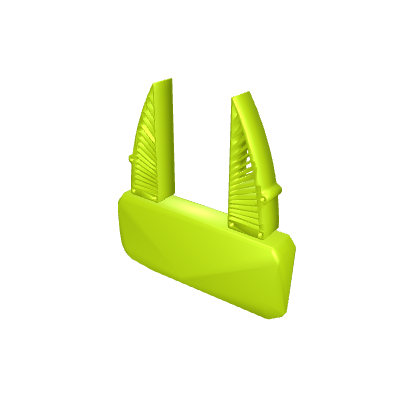
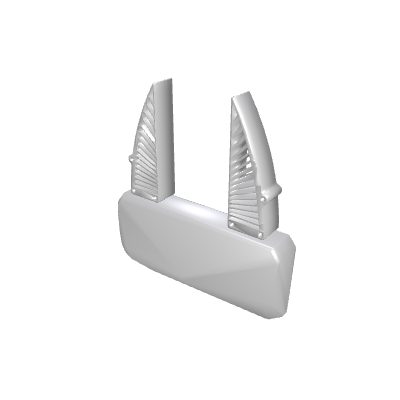
gripper imgs

Changed region(s): [[0.27, 0.18, 0.75, 0.81]]

diff --git a/gripper_descriptions/scripts/render_gripper_images.py b/gripper_descriptions/scripts/render_gripper_images.py
@@ -1,0 +1,221 @@
+#!/usr/bin/env python3
+# Copyright (c) 2025, NVIDIA CORPORATION. All rights reserved.
+#
+# NVIDIA CORPORATION and its licensors retain all intellectual property
+# and proprietary rights in and to this software, related documentation
+# and any modifications thereto. Any use, reproduction, disclosure or
+# distribution of this software and related documentation without an express
+# license agreement from NVIDIA CORPORATION is strictly prohibited.
+"""
+Render PNG images of each gripper's visual mesh (open configuration).
+
+Uses pyrender with EGL backend for headless offscreen rendering.
+Each gripper's vis_mesh.obj (merged visual mesh at open config) is loaded,
+rendered with a single-color metallic material, and saved as a PNG.
+
+Usage:
+    # Render all grippers
+    python -m gripper_descriptions.scripts.render_gripper_images
+
+    # Render a specific gripper
+    python -m gripper_descriptions.scripts.render_gripper_images --gripper robotiq_2f_85
+
+    # Custom output directory and resolution
+    python -m gripper_descriptions.scripts.render_gripper_images --output-dir my_figs/ --resolution 600
+"""
+
+import argparse
+import os
+import sys
+
+# Force EGL for headless rendering (must be set before pyrender import)
+os.environ["PYOPENGL_PLATFORM"] = "egl"
+
+import numpy as np
+import pyrender
+import trimesh
+from PIL import Image
+
+import gripper_descriptions
+
+
+def _normalize(v, eps=1e-12):
+    n = np.linalg.norm(v)
+    if n < eps:
+        return v
+    return v / n
+
+
+def camera_pose_from_lookat(eye, target, up=(0, 0, 1)):
+    """Compute a 4x4 camera-to-world pose matrix for pyrender (OpenGL convention)."""
+    eye = np.asarray(eye, dtype=float)
+    target = np.asarray(target, dtype=float)
+    up = np.asarray(up, dtype=float)
+
+    # pyrender camera looks down -Z in camera space
+    z = _normalize(eye - target)
+    x = _normalize(np.cross(up, z))
+    if np.linalg.norm(x) < 1e-8:
+        alt_up = np.array([0, 1, 0]) if abs(up[2]) > 0.9 else np.array([0, 0, 1])
+        x = _normalize(np.cross(alt_up, z))
+    y = np.cross(z, x)
+
+    pose = np.eye(4)
+    pose[:3, 0] = x
+    pose[:3, 1] = y
+    pose[:3, 2] = z
+    pose[:3, 3] = eye
+    return pose
+
+
+def compute_camera_params(mesh):
+    """Compute camera eye position and target to frame the mesh nicely."""
+    bounds = mesh.bounds  # (2, 3) — min and max corners
+    centroid = mesh.centroid
+    extents = bounds[1] - bounds[0]
+    radius = np.linalg.norm(extents) / 2.0
+
+    # Position camera at an angle that shows the gripper well
+    # Slightly elevated, looking from front-right
+    distance = radius * 2.8
+    eye = centroid + np.array([distance * 0.6, -distance * 0.8, distance * 0.5])
+    target = centroid
+
+    return eye, target
+
+
+def render_gripper(mesh_path, output_path, resolution=400):
+    """Render a single gripper vis_mesh.obj to a PNG file."""
+    mesh = trimesh.load(mesh_path, force="mesh")
+
+    # Gripper color — gray (#808080)
+    gripper_color = np.array([128, 128, 128, 255], dtype=np.uint8) / 255.0
+
+    scene = pyrender.Scene(
+        ambient_light=np.array([0.35, 0.35, 0.35, 1.0]),
+        bg_color=np.array([1.0, 1.0, 1.0, 1.0]),
+    )
+
+    # Add gripper mesh with metallic material
+    pm = pyrender.Mesh.from_trimesh(
+        mesh,
+        material=pyrender.MetallicRoughnessMaterial(
+            baseColorFactor=gripper_color,
+            metallicFactor=0.3,
+            roughnessFactor=0.5,
+        ),
+    )
+    scene.add(pm)
+
+    # Camera
+    eye, target = compute_camera_params(mesh)
+    cam = pyrender.PerspectiveCamera(yfov=np.pi / 4.0, aspectRatio=1.0)
+    cam_pose = camera_pose_from_lookat(eye, target)
+    scene.add(cam, pose=cam_pose)
+
+    # Key light (from camera direction)
+    key_light = pyrender.DirectionalLight(color=[1.0, 1.0, 1.0], intensity=4.0)
+    scene.add(key_light, pose=cam_pose)
+
+    # Fill light (from opposite side)
+    fill_eye = np.array([eye[0] * -1, eye[1] * -1, eye[2]])
+    fill_pose = camera_pose_from_lookat(fill_eye, target)
+    fill_light = pyrender.DirectionalLight(color=[0.8, 0.8, 0.9], intensity=2.0)
+    scene.add(fill_light, pose=fill_pose)
+
+    # Rim light (from above/behind)
+    rim_eye = target + np.array([0, 0, np.linalg.norm(eye - target) * 1.2])
+    rim_pose = camera_pose_from_lookat(rim_eye, target)
+    rim_light = pyrender.DirectionalLight(color=[0.9, 0.9, 1.0], intensity=1.5)
+    scene.add(rim_light, pose=rim_pose)
+
+    # Render
+    renderer = pyrender.OffscreenRenderer(resolution, resolution)
+    color, _ = renderer.render(scene)
+    renderer.delete()
+
+    Image.fromarray(color).save(output_path)
+
+
+def main():
+    parser = argparse.ArgumentParser(
+        description="Render PNG images of gripper visual meshes",
+        formatter_class=argparse.RawDescriptionHelpFormatter,
+    )
+    parser.add_argument(
+        "--gripper",
+        type=str,
+        default=None,
+        help="Render a single gripper by name. If omitted, renders all grippers.",
+    )
+    parser.add_argument(
+        "--output-dir",
+        type=str,
+        default=None,
+        help="Output directory for PNGs. Defaults to <repo_root>/figs/",
+    )
+    parser.add_argument(
+        "--resolution",
+        type=int,
+        default=400,
+        help="Image resolution (square). Default: 400",
+    )
+    parser.add_argument(
+        "--list-grippers",
+        action="store_true",
+        help="List available grippers and exit.",
+    )
+    args = parser.parse_args()
+
+    if args.list_grippers:
+        grippers = gripper_descriptions.list_grippers()
+        print(f"Available grippers ({len(grippers)}):")
+        for g in grippers:
+            print(f"  {g}")
+        return
+
+    # Default output dir: <repo_root>/figs/
+    if args.output_dir is None:
+        repo_root = os.path.dirname(
+            os.path.dirname(os.path.dirname(os.path.abspath(__file__)))
+        )
+        output_dir = os.path.join(repo_root, "figs")
+    else:
+        output_dir = args.output_dir
+
+    os.makedirs(output_dir, exist_ok=True)
+
+    # Determine which grippers to render
+    if args.gripper:
+        grippers = [args.gripper]
+    else:
+        grippers = gripper_descriptions.list_grippers()
+
+    print(f"Rendering {len(grippers)} gripper(s) to {output_dir}/")
+    print(f"Resolution: {args.resolution}x{args.resolution}")
+    print()
+
+    for gripper_name in grippers:
+        try:
+            gripper_path = gripper_descriptions.get_gripper_path(gripper_name)
+        except FileNotFoundError as e:
+            print(f"  SKIP {gripper_name}: {e}")
+            continue
+
+        mesh_path = os.path.join(gripper_path, "vis_mesh.obj")
+        if not os.path.exists(mesh_path):
+            print(f"  SKIP {gripper_name}: vis_mesh.obj not found")
+            continue
+
+        output_path = os.path.join(output_dir, f"{gripper_name}.png")
+        try:
+            render_gripper(mesh_path, output_path, resolution=args.resolution)
+            print(f"  OK   {gripper_name} -> {output_path}")
+        except Exception as e:
+            print(f"  FAIL {gripper_name}: {e}")
+
+    print(f"\nDone. Images saved to {output_dir}/")
+
+
+if __name__ == "__main__":
+    main()

diff --git a/README.md b/README.md
@@ -6,41 +6,38 @@ Real-world gripper URDF descriptions, meshes, and configuration files for [Grasp
 
 <table align="center">
   <tr>
-    <td align="center"><img src="figs/abb_yumi.png" width="120"><br><code>abb_yumi</code><br><sub>parallel_2f</sub></td>
-    <td align="center"><img src="figs/arx_x5.png" width="120"><br><code>arx_x5</code><br><sub>revolute_2f</sub></td>
-    <td align="center"><img src="figs/barrett_hand.png" width="120"><br><code>barrett_hand</code><br><sub>revolute_3f</sub></td>
-    <td align="center"><img src="figs/bd_spot.png" width="120"><br><code>bd_spot</code><br><sub>revolute_2f</sub></td>
-    <td align="center"><img src="figs/dh_ag95.png" width="120"><br><code>dh_ag95</code><br><sub>parallel_2f</sub></td>
-    <td align="center"><img src="figs/ezgripper.png" width="120"><br><code>ezgripper</code><br><sub>revolute_2f</sub></td>
-    <td align="center"><img src="figs/fetch_robot.png" width="120"><br><code>fetch_robot</code><br><sub>parallel_2f</sub></td>
-    <td align="center"><img src="figs/franka_panda.png" width="120"><br><code>franka_panda</code><br><sub>parallel_2f</sub></td>
+    <td align="center"><img src="figs/abb_yumi.png" height="120"><br><code>abb_yumi</code><br><sub>parallel_2f</sub></td>
+    <td align="center"><img src="figs/arx_x5.png" height="120"><br><code>arx_x5</code><br><sub>revolute_2f</sub></td>
+    <td align="center"><img src="figs/barrett_hand.png" height="120"><br><code>barrett_hand</code><br><sub>revolute_3f</sub></td>
+    <td align="center"><img src="figs/bd_spot.png" height="120"><br><code>bd_spot</code><br><sub>revolute_2f</sub></td>
+    <td align="center"><img src="figs/dh_ag95.png" height="120"><br><code>dh_ag95</code><br><sub>parallel_2f</sub></td>
+    <td align="center"><img src="figs/ezgripper.png" height="120"><br><code>ezgripper</code><br><sub>revolute_2f</sub></td>
+    <td align="center"><img src="figs/fetch_robot.png" height="120"><br><code>fetch_robot</code><br><sub>parallel_2f</sub></td>
+    <td align="center"><img src="figs/franka_panda.png" height="120"><br><code>franka_panda</code><br><sub>parallel_2f</sub></td>
   </tr>
   <tr>
-    <td align="center"><img src="figs/franka_umi.png" width="120"><br><code>franka_umi</code><br><sub>parallel_2f</sub></td>
-    <td align="center"><img src="figs/galaxea_g1.png" width="120"><br><code>galaxea_g1</code><br><sub>revolute_2f</sub></td>
-    <td align="center"><img src="figs/inspire_hand.png" width="120"><br><code>inspire_hand</code><br><sub>revolute_3f</sub></td>
-    <td align="center"><img src="figs/kinova_3f.png" width="120"><br><code>kinova_3f</code><br><sub>revolute_3f</sub></td>
-    <td align="center"><img src="figs/koch_hand.png" width="120"><br><code>koch_hand</code><br><sub>revolute_2f</sub></td>
-    <td align="center"><img src="figs/onrobot_2FG7.png" width="120"><br><code>onrobot_2FG7</code><br><sub>parallel_2f</sub></td>
-    <td align="center"><img src="figs/onrobot_RG2.png" width="120"><br><code>onrobot_RG2</code><br><sub>revolute_2f</sub></td>
-    <td align="center"><img src="figs/onrobot_RG6.png" width="120"><br><code>onrobot_RG6</code><br><sub>revolute_2f</sub></td>
+    <td align="center"><img src="figs/franka_umi.png" height="120"><br><code>franka_umi</code><br><sub>parallel_2f</sub></td>
+    <td align="center"><img src="figs/galaxea_g1.png" height="120"><br><code>galaxea_g1</code><br><sub>revolute_2f</sub></td>
+    <td align="center"><img src="figs/inspire_hand.png" height="120"><br><code>inspire_hand</code><br><sub>revolute_3f</sub></td>
+    <td align="center"><img src="figs/onrobot_RG2.png" height="120"><br><code>onrobot_RG2</code><br><sub>revolute_2f</sub></td>
+    <td align="center"><img src="figs/onrobot_RG6.png" height="120"><br><code>onrobot_RG6</code><br><sub>revolute_2f</sub></td>
+    <td align="center"><img src="figs/piper_hand.png" height="120"><br><code>piper_hand</code><br><sub>revolute_2f</sub></td>
+    <td align="center"><img src="figs/robotiq_2f_140.png" height="120"><br><code>robotiq_2f_140</code><br><sub>revolute_2f</sub></td>
+    <td align="center"><img src="figs/robotiq_2f_85.png" height="120"><br><code>robotiq_2f_85</code><br><sub>revolute_2f</sub></td>
   </tr>
   <tr>
-    <td align="center"><img src="figs/piper_hand.png" width="120"><br><code>piper_hand</code><br><sub>revolute_2f</sub></td>
-    <td align="center"><img src="figs/robotiq_2f_140.png" width="120"><br><code>robotiq_2f_140</code><br><sub>revolute_2f</sub></td>
-    <td align="center"><img src="figs/robotiq_2f_85.png" width="120"><br><code>robotiq_2f_85</code><br><sub>revolute_2f</sub></td>
-    <td align="center"><img src="figs/robotiq_3f.png" width="120"><br><code>robotiq_3f</code><br><sub>revolute_3f</sub></td>
-    <td align="center"><img src="figs/robotiq_hande.png" width="120"><br><code>robotiq_hande</code><br><sub>parallel_2f</sub></td>
-    <td align="center"><img src="figs/sawyer_hand.png" width="120"><br><code>sawyer_hand</code><br><sub>parallel_2f</sub></td>
-    <td align="center"><img src="figs/schunk_wsg50.png" width="120"><br><code>schunk_wsg50</code><br><sub>parallel_2f</sub></td>
-    <td align="center"><img src="figs/surge_hand.png" width="120"><br><code>surge_hand</code><br><sub>revolute_3f</sub></td>
+    <td align="center"><img src="figs/robotiq_3f.png" height="120"><br><code>robotiq_3f</code><br><sub>revolute_3f</sub></td>
+    <td align="center"><img src="figs/robotiq_hande.png" height="120"><br><code>robotiq_hande</code><br><sub>parallel_2f</sub></td>
+    <td align="center"><img src="figs/sawyer_hand.png" height="120"><br><code>sawyer_hand</code><br><sub>parallel_2f</sub></td>
+    <td align="center"><img src="figs/schunk_wsg50.png" height="120"><br><code>schunk_wsg50</code><br><sub>parallel_2f</sub></td>
+    <td align="center"><img src="figs/sharpa_wave.png" height="120"><br><code>sharpa_wave</code><br><sub>revolute_3f</sub></td>
+    <td align="center"><img src="figs/surge_hand.png" height="120"><br><code>surge_hand</code><br><sub>revolute_3f</sub></td>
+    <td align="center"><img src="figs/tesollo_delto2f.png" height="120"><br><code>tesollo_delto2f</code><br><sub>revolute_2f</sub></td>
+    <td align="center"><img src="figs/unitree_g1.png" height="120"><br><code>unitree_g1</code><br><sub>revolute_2f</sub></td>
   </tr>
   <tr>
-    <td align="center"><img src="figs/tesollo_delto2f.png" width="120"><br><code>tesollo_delto2f</code><br><sub>revolute_2f</sub></td>
-    <td align="center"><img src="figs/tesollo_delto3f.png" width="120"><br><code>tesollo_delto3f</code><br><sub>revolute_3f</sub></td>
-    <td align="center"><img src="figs/unitree_g1.png" width="120"><br><code>unitree_g1</code><br><sub>revolute_2f</sub></td>
-    <td align="center"><img src="figs/wuji.png" width="120"><br><code>wuji</code><br><sub>revolute_3f</sub></td>
-    <td align="center"><img src="figs/xarm_hand.png" width="120"><br><code>xarm_hand</code><br><sub>revolute_2f</sub></td>
+    <td align="center"><img src="figs/wuji_hand.png" height="120"><br><code>wuji_hand</code><br><sub>revolute_3f</sub></td>
+    <td align="center"><img src="figs/xarm_hand.png" height="120"><br><code>xarm_hand</code><br><sub>revolute_2f</sub></td>
   </tr>
 </table>
 
